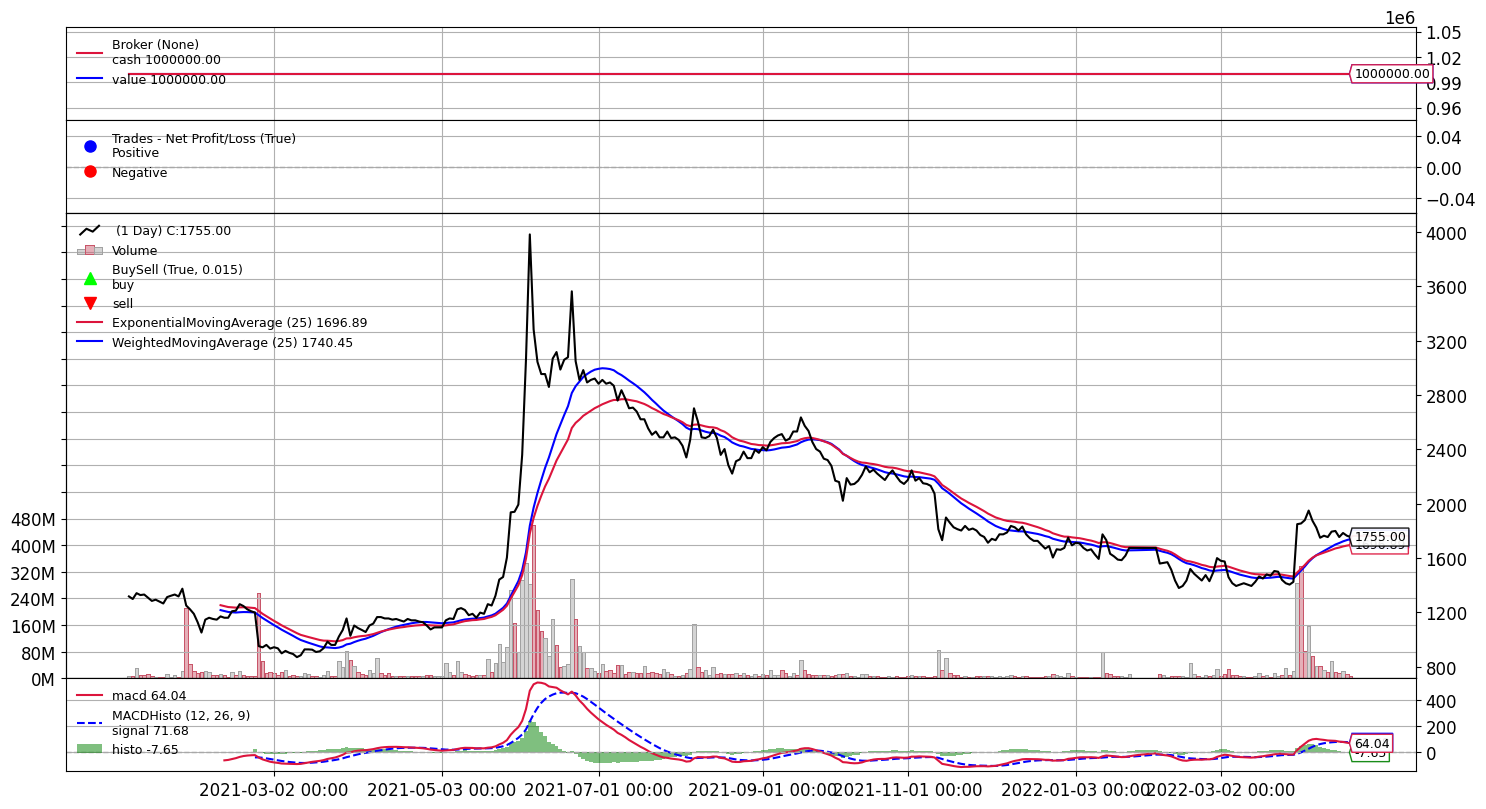
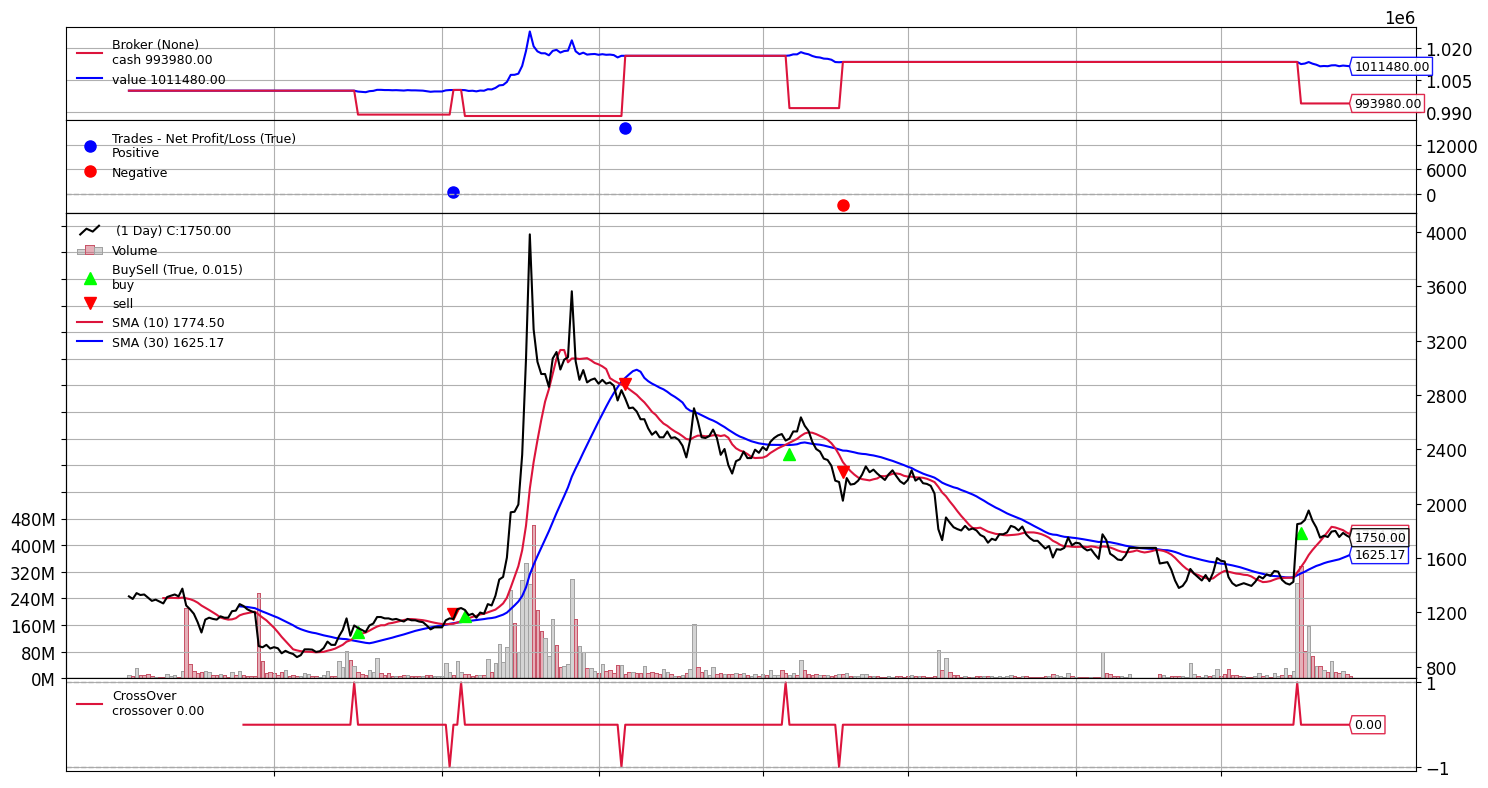
백트레이딩업데이트

Changed region(s): [[0.0, 0.0, 0.9906, 1.0]]

diff --git a/models/strategy.py b/models/strategy.py
@@ -12,3 +12,111 @@ class ta(bt.Strategy):
         # rsi = bt.indicators.RSI(self.datas[0])
         # bt.indicators.SmoothedMovingAverage(rsi, period=10)
         # bt.indicators.ATR(self.datas[0], plot = True)
+
+class SmaCross(bt.SignalStrategy):
+    def __init__(self):
+        sma1, sma2 = bt.ind.SMA(period=10), bt.ind.SMA(period=30)
+        crossover = bt.ind.CrossOver(sma1, sma2)
+        self.signal_add(bt.SIGNAL_LONG, crossover)
+
+# Create a Stratey
+optimization = False
+class TestStrategy(bt.Strategy):
+    params = (
+        ('maperiod', 20),
+    )
+
+    def log(self, txt, optimization=False, dt=None):
+        if optimization:
+            return
+        
+        ''' Logging function for this strategy'''
+        dt = dt or self.datas[0].datetime.date(0)
+        print('%s, %s' % (dt.isoformat(), txt))
+
+    def __init__(self):
+        # Keep a reference to the "close" line in the data[0] dataseries
+        self.dataclose = self.datas[0].close
+
+        # To keep track of pending orders and buy price/commission
+        self.order = None
+        self.buyprice = None
+        self.buycomm = None
+
+        self.hma = bt.indicators.HullMovingAverage(
+            self.datas[0], period=self.params.maperiod)
+
+    def notify_order(self, order):
+        global lastBuy
+        if order.status in [order.Submitted, order.Accepted]:
+            # Buy/Sell order submitted/accepted to/by broker - Nothing to do
+            return
+
+        # Check if an order has been completed
+        # Attention: broker could reject order if not enough cash
+        if order.status in [order.Completed]:
+            if order.isbuy():
+                lastBuy = self.datas[0].datetime.date(0)
+                self.log(
+                    'BUY EXECUTED, Price: $%.2f, Cost: $%.2f ($Comm %.2f)' %
+                    (order.executed.price,
+                     order.executed.value,
+                     order.executed.comm), optimization=optimization)
+
+                self.buyprice = order.executed.price
+                self.buycomm = order.executed.comm
+            else:  # Sell
+                self.log('SELL EXECUTED, Price: $%.2f, Cost: $%.2f (Comm $%.2f)' %
+                         (order.executed.price,
+                          order.executed.value,
+                          order.executed.comm), optimization=optimization)
+
+            self.bar_executed = len(self)
+
+        elif order.status in [order.Canceled, order.Margin, order.Rejected]:
+            self.log('Order Canceled/Margin/Rejected', optimization=optimization)
+
+        # Write down: no pending order
+        self.order = None
+
+    def notify_trade(self, trade):
+        if not trade.isclosed:
+            return
+
+        self.log('OPERATION GROSS $%.2f, NET $%.2f, PROFIT %.2f%%' %
+                 (trade.pnl, trade.pnlcomm, trade.pnlcomm/trade.price*100), optimization=optimization)
+        
+
+    def next(self):
+        # Check if an order is pending ... if yes, we cannot send a 2nd one
+        if self.order:
+            return
+
+        # Check if we are in the market
+        if not self.position:
+            # check for HMA trend reversal
+            if self.hma[-2] >= self.hma[-1] and \
+               self.hma[-1] < self.hma[0]:
+
+                self.log('BUY CREATE, $%.2f' % self.dataclose[0], optimization=optimization)
+
+                # Keep track of the created order to avoid a 2nd order
+                self.order = self.buy()
+
+        else:
+            # check for HMA trend reversal
+            if self.hma[-2] <= self.hma[-1] and \
+               self.hma[-1] > self.hma[0]:
+
+                self.log('SELL CREATE, $%.2f' % self.dataclose[0], optimization=optimization)
+
+                # Keep track of the created order to avoid a 2nd order
+                self.order = self.sell()
+
+    def stop(self):
+        self.log('(MA Period %2d) Ending Value %.2f' %
+                 (self.params.maperiod, self.broker.getvalue()), optimization=optimization)
+        
+        # keep track of results for each period backtest
+        strategyResults[self.params.maperiod] = self.broker.getvalue()
+        

diff --git a/app.py b/app.py
@@ -25,11 +25,10 @@ save_results_path = os.path.join(save_results_path, "results")
 save_results_path = os.path.join(save_results_path, ticker + ".png")
 
 data = dn.s_download(ticker, "20210101", "20221231")
-
 display(data)
 
 # 전략 클래스
-model = st.ta
+model = st.TestStrategy
 # 백테스팅
 cerebro = bt.backtrader_run(data, model)
 

diff --git a/simulator/backtrader.py b/simulator/backtrader.py
@@ -7,7 +7,7 @@ import backtrader.feeds as btFeeds
 """
 backtrader 시뮬레이션 실행
 """
-def backtrader_run(data, strategy, init_cash=1_000_000, commission=0.0, stake=10):
+def backtrader_run(data, strategy, init_cash=1_000_000, commission=0.0, stake=1):
 
     data = bt.feeds.PandasData(dataname=data)
 
